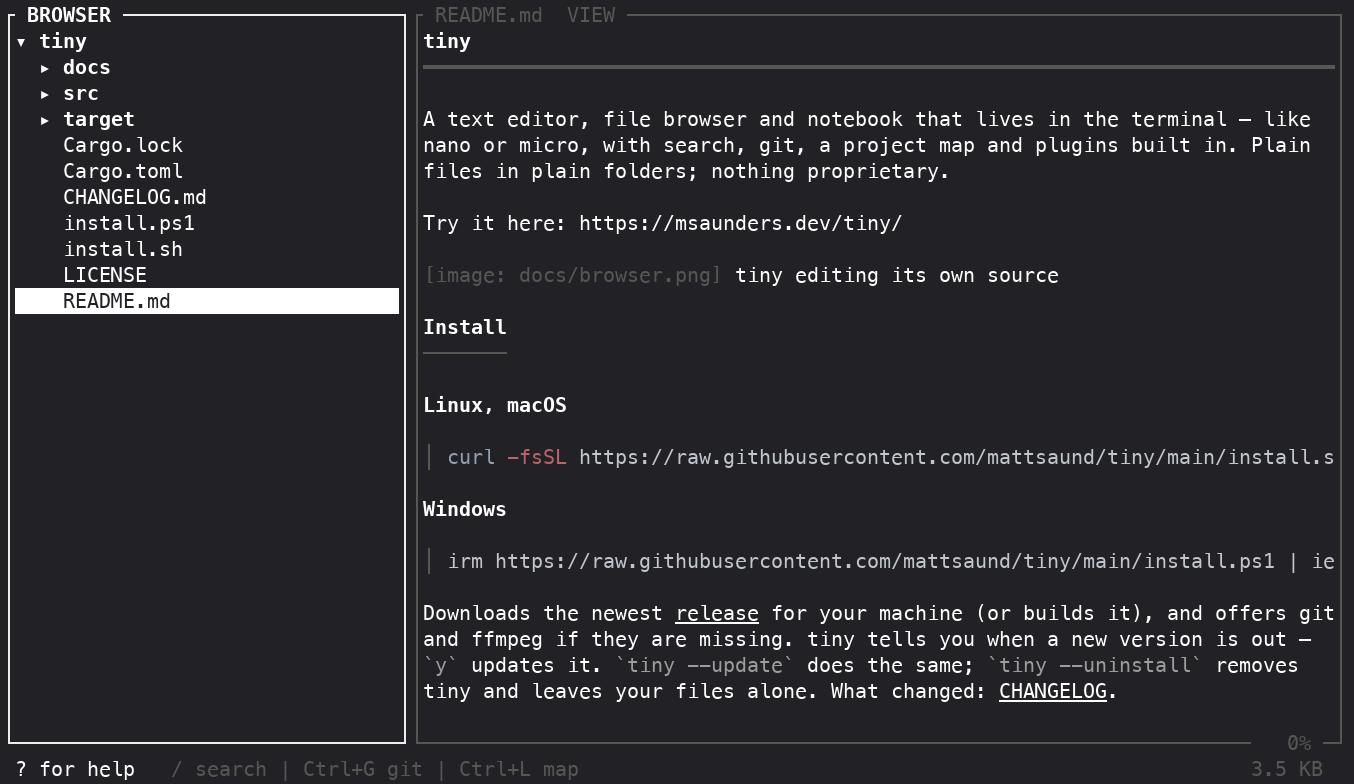
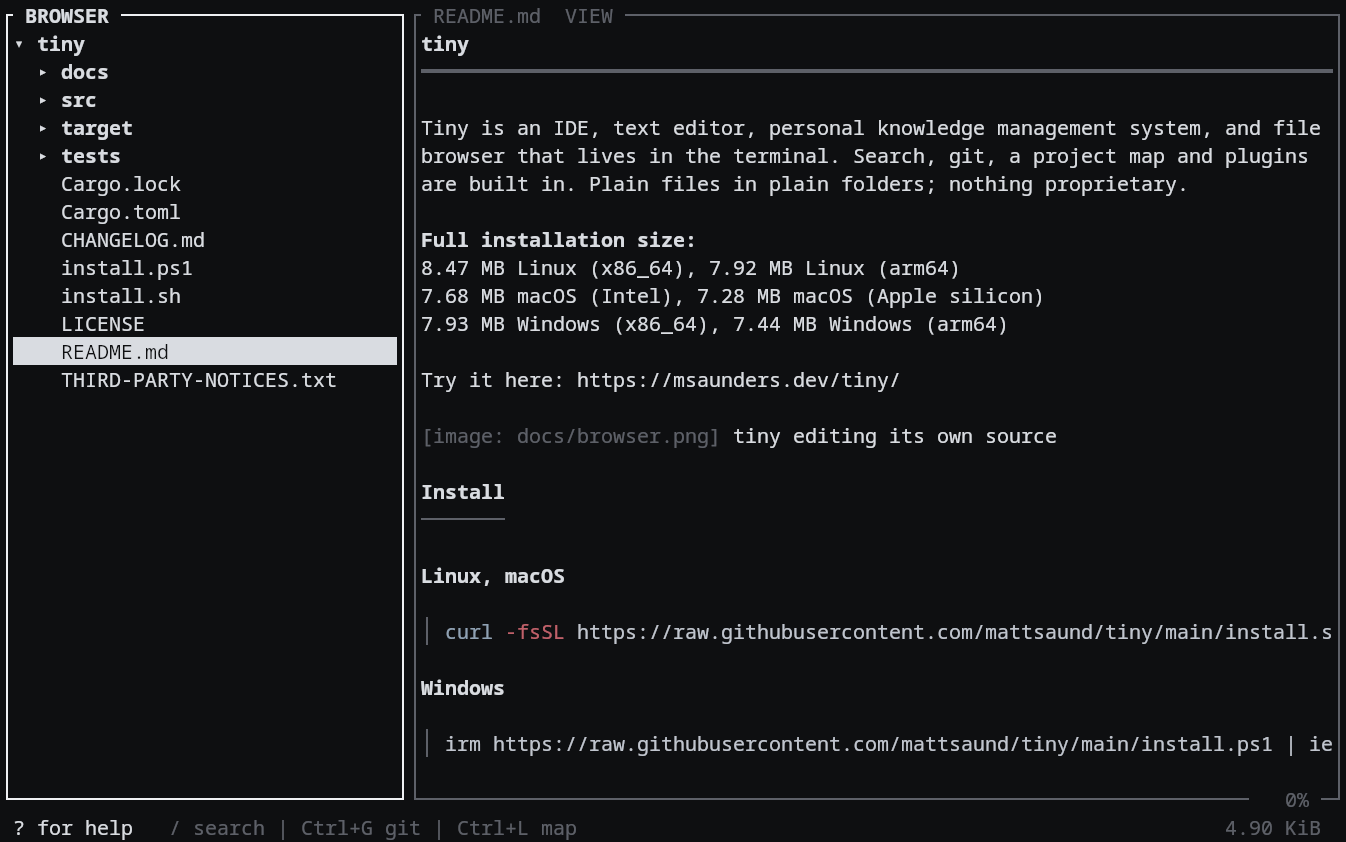
README: two panes, the 0.5.5 sizes, and pictures taken in kitty
A section for two panes with a picture of them, the keys that work
them, glyphs and colors following the terminal, and tiny.set. The sizes
are each platform's 0.5.5 binary, one line per system, now with Windows
on Arm. Every picture is taken again in kitty, at one size, showing
this release.

diff --git a/README.md b/README.md
@@ -4,8 +4,10 @@ Tiny is an IDE, text editor, personal knowledge management system, and file
 browser that lives in the terminal. Search, git, a project map and plugins are
 built in. Plain files in plain folders; nothing proprietary.
 
-**Full installation size:** 7.54 MB macOS (Intel), 7.15 MB macOS (Apple
-silicon), 8.32 MB Linux (x86_64), 7.78 MB Linux (arm64), 7.78 MB Windows
+**Full installation size:**\
+8.47 MB Linux (x86_64), 7.92 MB Linux (arm64)\
+7.68 MB macOS (Intel), 7.28 MB macOS (Apple silicon)\
+7.93 MB Windows (x86_64), 7.44 MB Windows (arm64)
 
 Try it here: https://msaunders.dev/tiny/
 
@@ -45,6 +47,14 @@ tiny ~/code/main.py  # that file
 
 `/` searches names and contents as you type. Start with `*` for a command.
 
+## Two panes
+
+![two files side by side](docs/split.png)
+
+`Ctrl+W` splits the editor in two, and again goes back to one.
+`Shift+Left` and `Shift+Right` move between them. Each pane keeps its own
+place, even in the same file.
+
 ## Git
 
 ![the git window](docs/git.png)
@@ -77,6 +87,8 @@ audio and PDFs open in your own viewer.
 | `Ctrl+S` | save (on a folder, all of it) |
 | `/`, `Ctrl+F` | search |
 | `Ctrl+G`, `Ctrl+L` | git, map |
+| `Ctrl+W` | two panes, and back to one |
+| `Shift+Left`, `Shift+Right` | the other pane |
 | `Ctrl+T`, `<` `>` | hide the browser, its width |
 | `Ctrl+N` | another tiny window |
 | `Ctrl+Q` | quit |
@@ -113,14 +125,19 @@ end)
 
 `tiny.command` `tiny.on("open"/"save")` `tiny.status` `tiny.text`
 `tiny.set_text` `tiny.insert` `tiny.cursor` `tiny.go` `tiny.path` `tiny.root`
-`tiny.open`
+`tiny.open` `tiny.set`
 
 ## Config
 
 `*config` opens the settings; `tiny --config` prints where `tiny.conf` is.
-Keys go in `[keys]`:
+tiny uses your terminal's font and colors, and picks its characters and
+colors to suit the terminal it is in. `glyphs` (`unicode`, `ascii`) and
+`colors` (`truecolor`, `256`, `16`, `none`) override that. Keys go in
+`[keys]`:
 
 ```toml
+glyphs = "ascii"
+
 [keys]
 down        = "z"
 editor.undo = "ctrl+u"
@@ -137,8 +154,9 @@ to follow specific guidelines:
    understand the code that is being written.
 
 **Tests.** `cargo test`, `cargo clippy` and `cargo fmt`. CI runs all three on
-Linux, macOS and Windows. A version is released by tagging it; see
-`.github/workflows/release.yml`.
+Linux, macOS and Windows, and starts tiny in a terminal there: under eleven
+terminal names, at several sizes, and inside tmux and GNU screen. A version
+is released by tagging it; see `.github/workflows/release.yml`.
 
 ## License and credits
 
